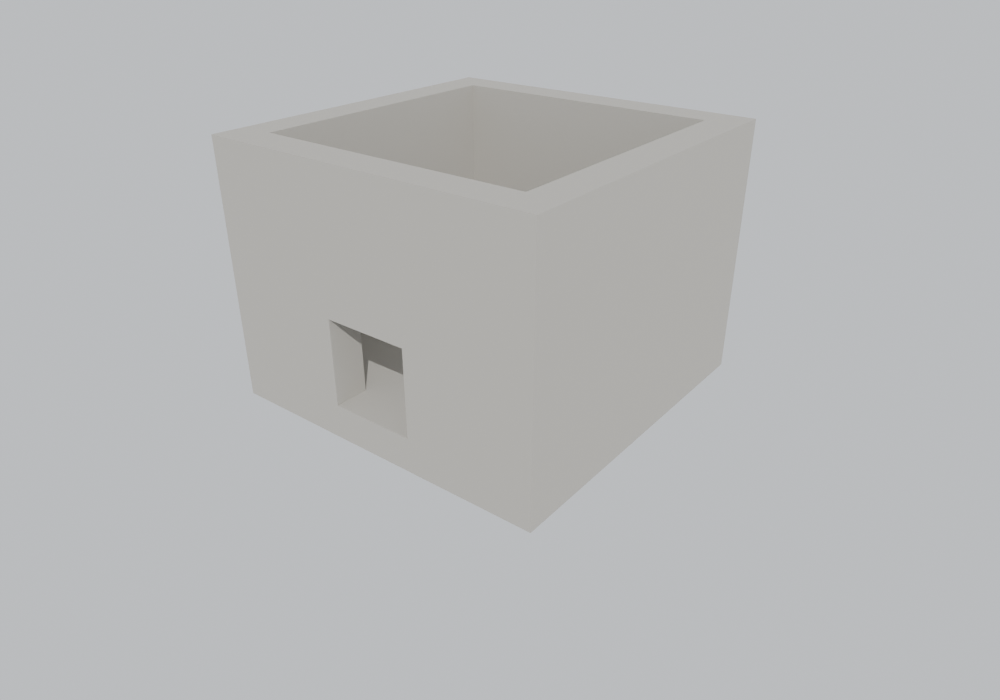
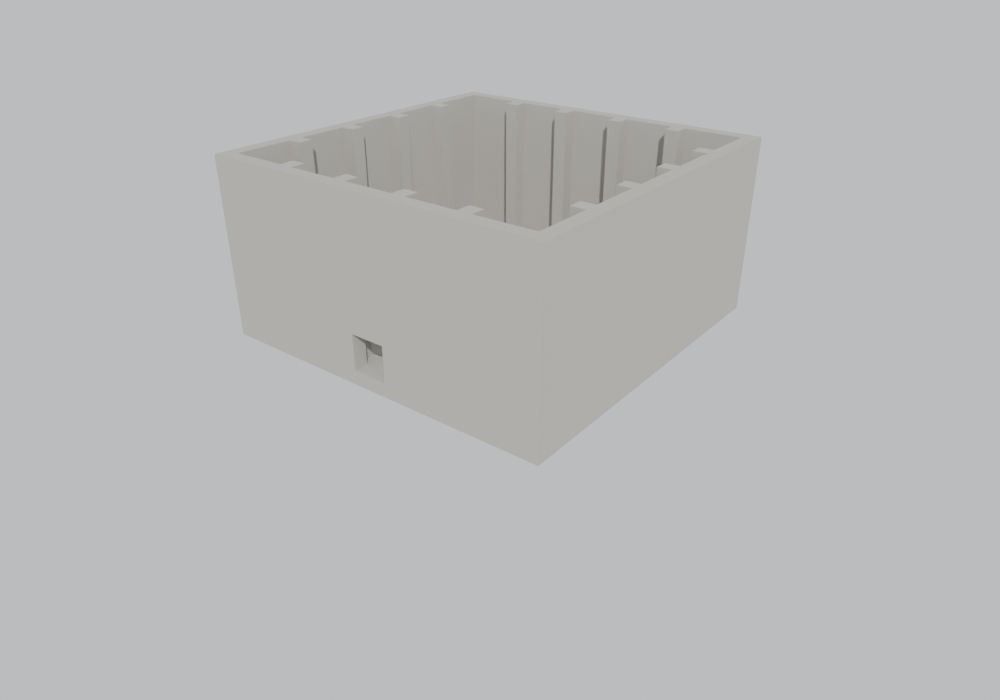
Grande salle 250 x 250 x 125 m with 16 linked 10x10 m columns (4 per wall, equal spacing, none in corners)
Claude-Session: https://claude.ai/code/session_01SWXPy6War9Jf9BhkNrgaL1

diff --git a/Tools/models/grande_salle_blender.py b/Tools/models/grande_salle_blender.py
@@ -1,10 +1,11 @@
-"""Grande salle en .blend (100 x 100 m, 75 m de haut) : UN seul cube propre (8 sommets, 6 faces) ; le creux et les 2 ouvertures sont des
+"""Grande salle en .blend (250 x 250 m, 125 m de haut, 16 colonnes) : UN seul cube propre (8 sommets, 6 faces) ; le creux et les 2 ouvertures sont des
 modificateurs Booléens (formes de découpe modifiables, en fil de fer). Bloc d'échelle 0,5 x 0,5 x 2 m au centre.
 Blender (Z vers le haut, mètres). Lancer :  python3.11 avec le module bpy  ->  Assets/Export/grande_salle.blend"""
 import os, sys, math
 import bpy, bmesh
 
-W, H, T = 100.0, 75.0, 10.0          # largeur, hauteur, épaisseur des parois et du sol
+W, H, T = 250.0, 125.0, 10.0
+COL, NCOL = 10.0, 4                   # colonnes : 10 x 10 m, 4 par mur, aucune dans un angle, à écart égal          # largeur, hauteur, épaisseur des parois et du sol
 OW, OH = 25.0, 25.0                   # ouvertures : largeur, hauteur
 OUT = os.path.abspath(os.path.join(os.path.dirname(__file__), "..", "..", "Assets", "Export"))
 
@@ -53,11 +54,23 @@ mod.operation = "DIFFERENCE"; mod.operand_type = "COLLECTION"; mod.collection = 
 rep = box("Repere_echelle", -0.25, 0.25, -0.25, 0.25, T, T + 2.0, origin=(0, 0, T)); col_main.objects.link(rep)
 rep.data.materials.append(mat("Repere", (0.70, 0.05, 0.02)))
 
+# colonnes : un seul maillage (pavé 10 x 10 m) partagé par 16 objets ; modifier l'un modifie toutes les autres
+col_cols = bpy.data.collections.new("Colonnes"); scn.collection.children.link(col_cols)
+me_col = box("Colonne_maillage", -COL / 2, COL / 2, -COL / 2, COL / 2, T, H, origin=(0, 0, T)).data
+me_col.name = "Colonne"; me_col.materials.append(bpy.data.materials["Pierre"])
+pas = 2 * b / (NCOL + 1)                                # 5 intervalles égaux entre les angles : 46 m
+k = 0
+for i in range(1, NCOL + 1):
+    u = -b + i * pas                                    # position le long du mur
+    for (x, y) in ((u, -b + COL / 2), (u, b - COL / 2), (-b + COL / 2, u), (b - COL / 2, u)):   # avant, arrière, gauche, droite
+        k += 1; c = bpy.data.objects.new("Colonne_%02d" % k, me_col); c.location = (x, y, T); col_cols.objects.link(c)
+print("colonnes :", k, "| centres le long des murs :", [round(-b + i * pas, 2) for i in range(1, NCOL + 1)])
+
 # lumière et caméra pour un premier rendu
 sun = bpy.data.objects.new("Soleil", bpy.data.lights.new("Soleil", "SUN")); sun.data.energy = 3
 sun.rotation_euler = (math.radians(50), math.radians(10), math.radians(35)); scn.collection.objects.link(sun)
 cam = bpy.data.objects.new("Camera", bpy.data.cameras.new("Camera")); cam.data.clip_end = 5000; cam.data.lens = 30
-cam.location = (135, -170, 125); scn.collection.objects.link(cam); scn.camera = cam
+cam.location = (330, -420, 260); scn.collection.objects.link(cam); scn.camera = cam
 cam.rotation_euler = (math.radians(62), 0, math.radians(38))
 scn.world = bpy.data.worlds.new("Ciel"); scn.world.color = (0.75, 0.78, 0.82)
 
@@ -81,7 +94,7 @@ for scr in bpy.data.screens:
         for sp in area.spaces:
             if sp.type == "VIEW_3D":
                 sp.clip_end = 5000; sp.clip_start = 0.1
-                r3 = sp.region_3d; r3.view_location = (0, 0, 30); r3.view_distance = 260
+                r3 = sp.region_3d; r3.view_location = (0, 0, 50); r3.view_distance = 620
                 r3.view_rotation = Euler((math.radians(62), 0, math.radians(38))).to_quaternion(); n += 1
 print("vues 3D réglées :", n)
 os.makedirs(OUT, exist_ok=True)
@@ -93,6 +106,6 @@ if "--render" in sys.argv:                                   # aperçu (Cycles C
     scn.render.resolution_x, scn.render.resolution_y = 1000, 700
     scn.render.filepath = os.path.join(sys.argv[sys.argv.index("--render") + 1], "salle_ext.png")
     bpy.ops.render.render(write_still=True)
-    cam.location = (4, -9, 12); cam.rotation_euler = (math.radians(88), 0, math.radians(20)); cam.data.lens = 22
+    cam.location = (60, -100, 40); cam.rotation_euler = (math.radians(80), 0, math.radians(25)); cam.data.lens = 18
     scn.render.filepath = os.path.join(sys.argv[sys.argv.index("--render") + 1], "salle_int.png")
     bpy.ops.render.render(write_still=True)
